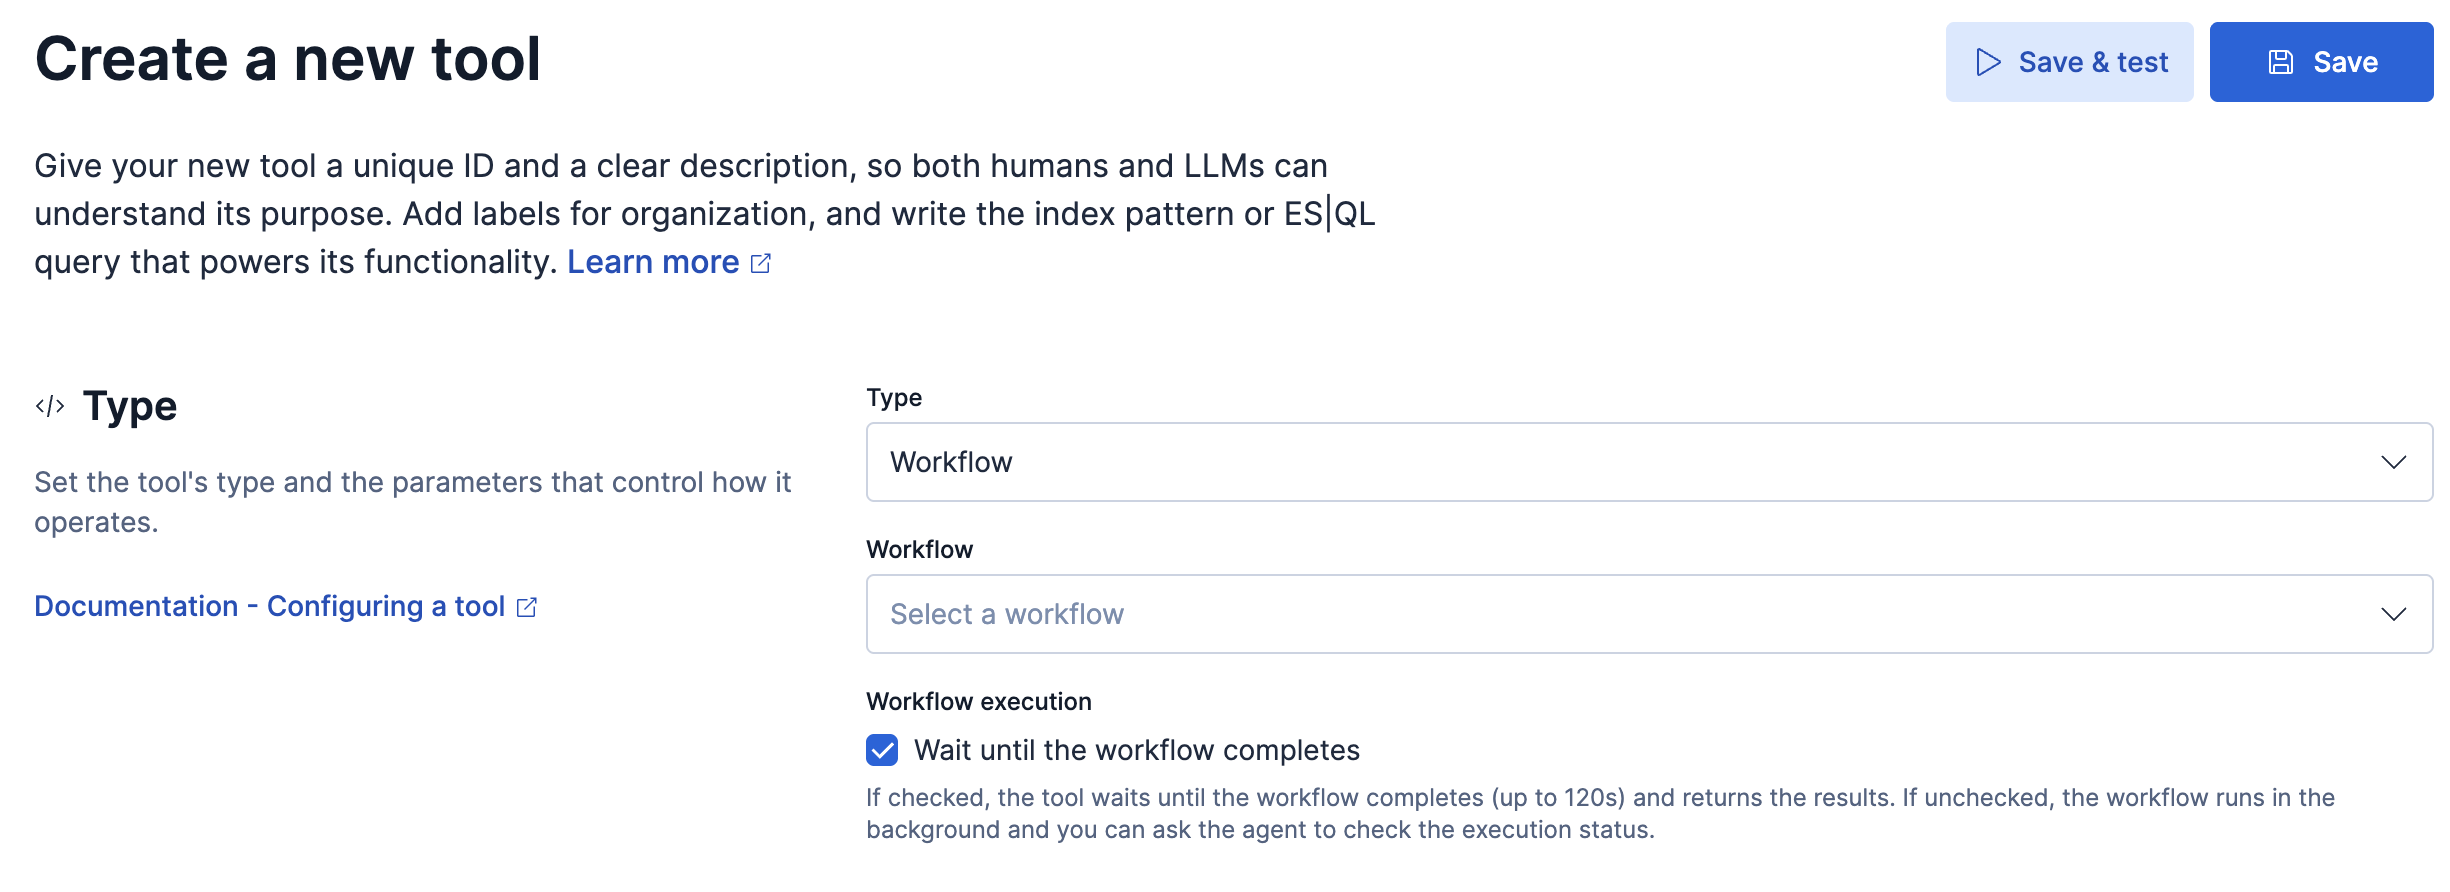
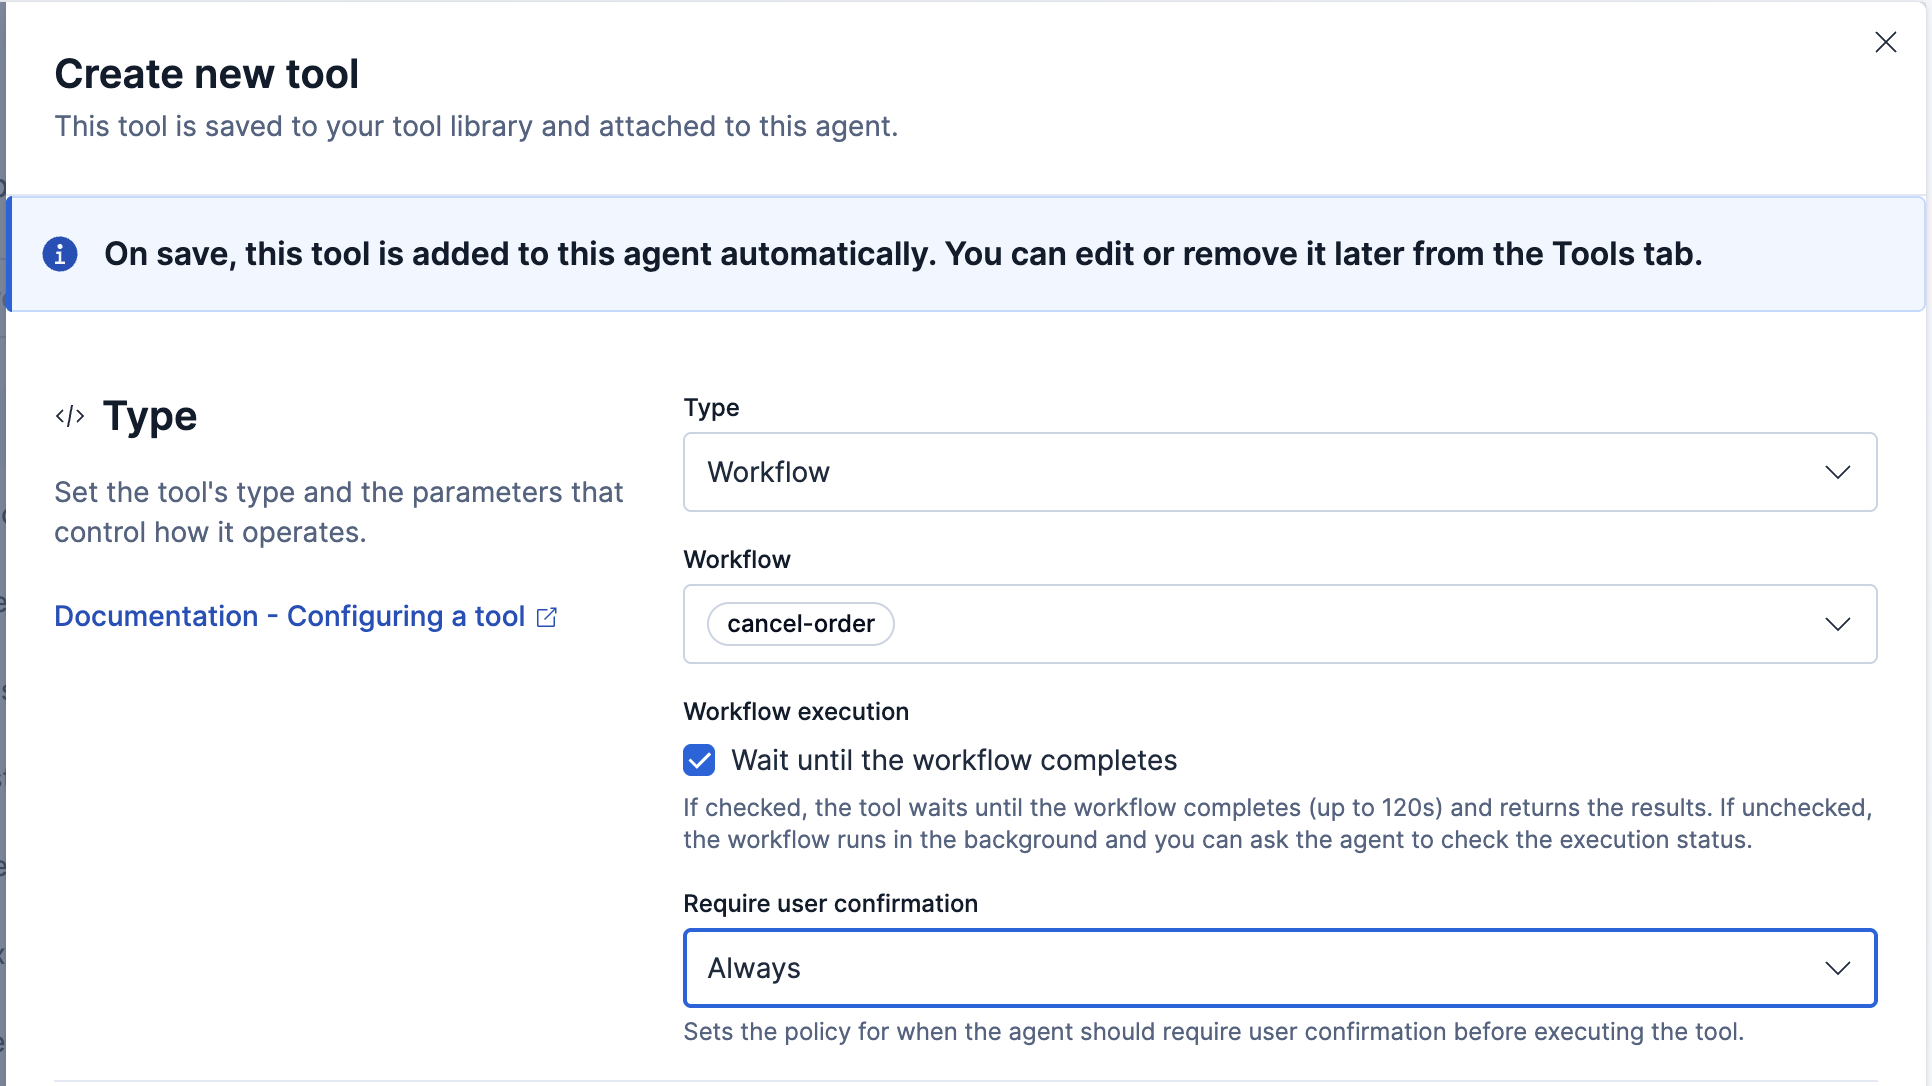
[Agent Builder] Document human-in-the-loop confirmation for custom tools (#8225)
Documents the **Require user confirmation** policy for custom tools,
added in elastic/kibana#281896 (9.6).

### Changes

- **custom-tools.md** — replaces the "not available" note; explains that
the policy is configurable in the UI for workflow and MCP tools, and via
the Tools API for any custom tool type
- **workflow-tools.md**, **mcp-tools.md** — new **Require user
confirmation** configuration entry; both screenshots recaptured to show
the control
- **chat.md** — generalizes tool confirmation beyond Elastic-built
tools, adds an example of the generic prompt, adds the missing
`serverless: ga` badge
- **limitations-known-issues.md** — clarifies that a declined tool call
does not fail the sub-agent run
- **agent-builder-api-tutorial.md** — drops the now-inaccurate
"Elastic-built" qualifier

Scoped `stack: ga 9.6+` / `serverless: ga`.

Closes elastic/docs-content-internal#1610

diff --git a/explore-analyze/ai-features/agent-builder/chat.md b/explore-analyze/ai-features/agent-builder/chat.md
@@ -239,6 +239,7 @@ To learn how traces are collected, configured, and secured, refer to [Collect ag
 ### Human-in-the-loop prompts
 ```{applies_to}
 stack: ga 9.4+
+serverless: ga
 ```
 
 At certain points an agent pauses and hands control back to you before it continues. This pattern is known as human-in-the-loop (HITL). While a conversation is paused this way, it shows an **Awaiting your input** status in the [chat history panel](#track-conversation-status).
@@ -247,15 +248,24 @@ At certain points an agent pauses and hands control back to you before it contin
 
 | Prompt | When it appears | Available responses |
 | --- | --- | --- |
-| Tool confirmation | An Elastic-built tool or skill requires approval before it performs an action | Confirm the action or deny it |
+| Tool confirmation | A tool or skill requires approval before it performs an action | Confirm the action or deny it |
 | Connector authorization {applies_to}`stack: preview 9.5+` {applies_to}`serverless: preview` | An external connector needs access to continue | Authorize access or deny it |
 | Clarifying question {applies_to}`stack: preview 9.5+` {applies_to}`serverless: preview` | The agent needs more information to continue | Answer or skip the question |
 
 HITL prompts do not replace role-based access control or grant additional privileges. Actions still run with your existing permissions.
 
+HITL prompts require an interactive conversation, so [sub-agent executions cannot answer them](limitations-known-issues.md#human-in-the-loop-prompts-require-an-interactive-conversation).
+
 #### Confirm a change
 
-Some Elastic-built tools and skills pause for confirmation before performing consequential actions. When confirmation is required, the chat presents a preview before the action takes effect. The preview format and available responses depend on the tool or skill. Review the preview, then confirm the action to proceed or deny it to cancel.
+Some tools and skills pause for confirmation before they perform consequential actions. Elastic-built tools and skills decide for themselves when to ask.
+
+For [custom tools](tools/custom-tools.md), you decide when the agent asks: set **Require user confirmation** to **Never**, **Once**, or **Always**. {applies_to}`stack: ga 9.6+` {applies_to}`serverless: ga`
+
+What the prompt shows depends on the tool:
+
+* Some Elastic-built tools and skills preview the change before it takes effect. The preview format and the button labels depend on the tool or skill: a prompt to delete a [stream](/solutions/observability/streams/streams.md) offers **Delete permanently**, and a prompt to create one offers **Create stream**. Review the preview, then confirm the action to proceed or deny it to cancel.
+* Other tools, including all custom tools, show a generic prompt that names the tool and asks whether to proceed. Select **Allow** to proceed or **Deny** to cancel. The prompt identifies the tool by its ID and does not show the parameters that the agent passes to it, so give custom tools [descriptive IDs](tools/custom-tools.md#naming-conventions).
 
 For example, when an agent updates a workflow, it shows the proposed change as a diff and waits for you to review it before applying:
 
@@ -278,6 +288,14 @@ For irreversible actions, the prompt highlights the consequences before you proc
 :::{image} images/agent-builder-confirm-delete-stream.png
 :screenshot:
 :alt: Confirmation prompt warning that the logs.otel.checkout stream and its data will be permanently deleted
+:width: 700px
+:::
+
+Custom tools show the generic prompt instead. Here, a tool that cancels an order asks for permission before it runs. The prompt names the tool but not the order:
+
+:::{image} images/agent-builder-tool-confirmation-prompt.png
+:screenshot:
+:alt: Generic confirmation prompt asking permission to call the tool ecommerce.cancel_order, with Deny and Allow buttons
 :width: 700px
 :::
 

diff --git a/explore-analyze/ai-features/agent-builder/tools/mcp-tools.md b/explore-analyze/ai-features/agent-builder/tools/mcp-tools.md
@@ -37,7 +37,7 @@ Once you've set up an MCP connector, click **+ New tool** on the [Tools](/explor
 
 :::{image} ../images/mcp-createnewtool-config-example.png
 :screenshot:
-:alt: Example configuration for a new MCP tool with the Context7 MCP server.
+:alt: Example configuration for a new MCP tool with the Context7 MCP server, including the Require user confirmation policy set to Never.
 :width: 800px
 :::
 
@@ -50,8 +50,12 @@ MCP Server
 
 Tool
 :   The specific tool on MCP server to create an Agent Builder MCP tool for.
+:   After you select a tool, the **Tool ID** and **Description** fields automatically populate with the tool name and description provided by the MCP server.
 
-Once a tool is selected, the `Tool ID` and `Description` fields automatically populate with the tool name and description provided by the MCP server.
+Require user confirmation (Optional) {applies_to}`stack: preview 9.6+` {applies_to}`serverless: preview`
+:   Controls whether the agent asks you to approve a tool call before it runs. Select **Never** to run without a prompt, **Once** to prompt the first time the agent calls the tool in a conversation, or **Always** to prompt on every call. The default is **Never**.
+:   With **Once**, your response applies to every later call to the tool in the same conversation, whether you confirmed or denied the action, including retries after a failed call.
+:   Confirmation applies only when an agent calls the tool. Refer to [Human-in-the-loop prompts](../chat.md#human-in-the-loop-prompts).
 
 ### Bulk import MCP tools
 
@@ -83,6 +87,8 @@ Namespace
 After clicking **Import tools**, Agent Builder creates an MCP tool for each selection.
 
 Each tool's ID is generated as `namespace.tool-name` (for example, `context7.resolve-library-id`), and descriptions are populated automatically from the MCP server.
+
+Bulk import does not configure confirmation, so each imported tool starts with **Require user confirmation** set to **Never**. To require confirmation for an imported tool, edit it after import. {applies_to}`stack: preview 9.6+` {applies_to}`serverless: preview`
 
 ## How MCP tool calls work
 

diff --git a/explore-analyze/ai-features/agent-builder/tools/custom-tools.md b/explore-analyze/ai-features/agent-builder/tools/custom-tools.md
@@ -16,10 +16,6 @@ products:
 
 You can extend the built-in tool catalog with your own custom tool definitions. Custom tools offer flexibility in how they interact with your data. This flexibility allows you to create tools that match your specific use cases and data access patterns.
 
-:::{note}
-[Human-in-the-loop confirmation](../chat.md#human-in-the-loop-prompts) is not currently available for custom tools.
-:::
-
 ## Tool types
 
 {{agent-builder}} supports several tool types:
@@ -79,6 +75,19 @@ To create a custom tool in the UI:
 
 You can also create and manage tools programmatically. To learn more, refer to [Tools API](../tools.md#tools-api).
 
+## Require confirmation before a tool runs
+```{applies_to}
+stack: ga 9.6+
+serverless: ga
+```
+
+An agent can pause and ask you to approve a call to a custom tool before it runs. To learn what these prompts look like in chat, refer to [Human-in-the-loop prompts](../chat.md#human-in-the-loop-prompts).
+
+Set **Require user confirmation** in the UI for [workflow tools](workflow-tools.md) and [MCP tools](mcp-tools.md), or use the [Tools API](../tools.md#tools-api) for any custom tool type. The API equivalent is the tool's `confirmation.askUser` property, which accepts `never`, `once`, or `always`. A request that retrieves the tool returns the current value.
+
+{{esql}} and index search tools accept `confirmation.askUser` through the API, and the agent applies it, but the setting does not appear when you open the tool in the UI. Use the API to check or change it for these tool types.
+
+Confirmation applies only when an agent calls the tool. Calling the tool directly through the Tools API skips it, and [sub-agent executions cannot answer confirmation prompts](../limitations-known-issues.md#human-in-the-loop-prompts-require-an-interactive-conversation).
 
 ## Test your tools
 

diff --git a/explore-analyze/ai-features/agent-builder/tools/workflow-tools.md b/explore-analyze/ai-features/agent-builder/tools/workflow-tools.md
@@ -75,8 +75,13 @@ The Workflow tools have the following configuration settings:
   :   The specific Elastic Workflow to execute. Selecting a workflow automatically pulls its definition into the tool configuration.
   
   **Inputs**
-  :   The parameters required by the workflow. These are automatically detected from the `inputs` section of the selected workflow's YAML definition. The agent will attempt to extract values for these inputs from the user's chat message.
+  :   The parameters required by the workflow. These are automatically detected from the `inputs` section of the selected workflow's YAML definition. The agent tries to extract values for these inputs from the user's chat message.
   
+  **Require user confirmation** (Optional) {applies_to}`stack: preview 9.6+` {applies_to}`serverless: preview`
+  :   Controls whether the agent asks you to approve a tool call before it runs. Select **Never** to run without a prompt, **Once** to prompt the first time the agent calls the tool in a conversation, or **Always** to prompt on every call. The default is **Never**.
+  :   With **Once**, your response applies to every later call to the tool in the same conversation, whether you confirmed or denied the action, including retries after a failed call.
+  :   Confirmation applies only when an agent calls the tool. Refer to [Human-in-the-loop prompts](../chat.md#human-in-the-loop-prompts).
+
   **Labels** (Optional)
   :   Tags used to organize and filter tools within the {{agent-builder}} UI.
 

diff --git a/explore-analyze/ai-features/agent-builder/limitations-known-issues.md b/explore-analyze/ai-features/agent-builder/limitations-known-issues.md
@@ -38,7 +38,9 @@ The [A2A server](a2a-server.md) does not currently support streaming operations.
 
 ### Human-in-the-loop prompts require an interactive conversation
 
-[Human-in-the-loop prompts](chat.md#human-in-the-loop-prompts) are supported only in interactive {{agent-builder}} conversations. Standalone sub-agent executions, whether foreground or background, cannot collect a response to these prompts, so actions that require confirmation or authorization are declined.
+[Human-in-the-loop prompts](chat.md#human-in-the-loop-prompts) work only in interactive {{agent-builder}} conversations. A sub-agent execution cannot collect a response to these prompts, whether the sub-agent runs in the foreground or the background, so {{agent-builder}} declines any action that requires confirmation or authorization.
+
+The sub-agent run itself does not fail. The tool call returns an error result and the sub-agent continues, so the sub-agent can report the declined action in its output.
 
 A2A executions behave differently: the action is not declined. Instead, the conversation round remains in the `awaiting_prompt` state, but A2A clients cannot respond to the prompt.
 

diff --git a/explore-analyze/ai-features/agent-builder/agent-builder-api-tutorial.md b/explore-analyze/ai-features/agent-builder/agent-builder-api-tutorial.md
@@ -923,7 +923,7 @@ The agent uses your custom `example-books-esql-tool` to efficiently answer the q
 
 ### Handle a human-in-the-loop prompt
 
-When an agent calls an Elastic-built tool that requires your confirmation, the response has an `awaiting_prompt` status and includes the prompt in `response.prompts`:
+When an agent calls a tool that requires your confirmation, the response has an `awaiting_prompt` status and includes the prompt in `response.prompts`:
 
 ```json
 {
@@ -935,7 +935,8 @@ When an agent calls an Elastic-built tool that requires your confirmation, the r
       {
         "type": "confirmation",
         "id": "<PROMPT_ID>",
-        "title": "Confirm this action"
+        "title": "Permission to call tool",
+        "message": "Agent wants to call tool \"<TOOL_ID>\". Do you want to proceed?"
       }
     ]
   }
